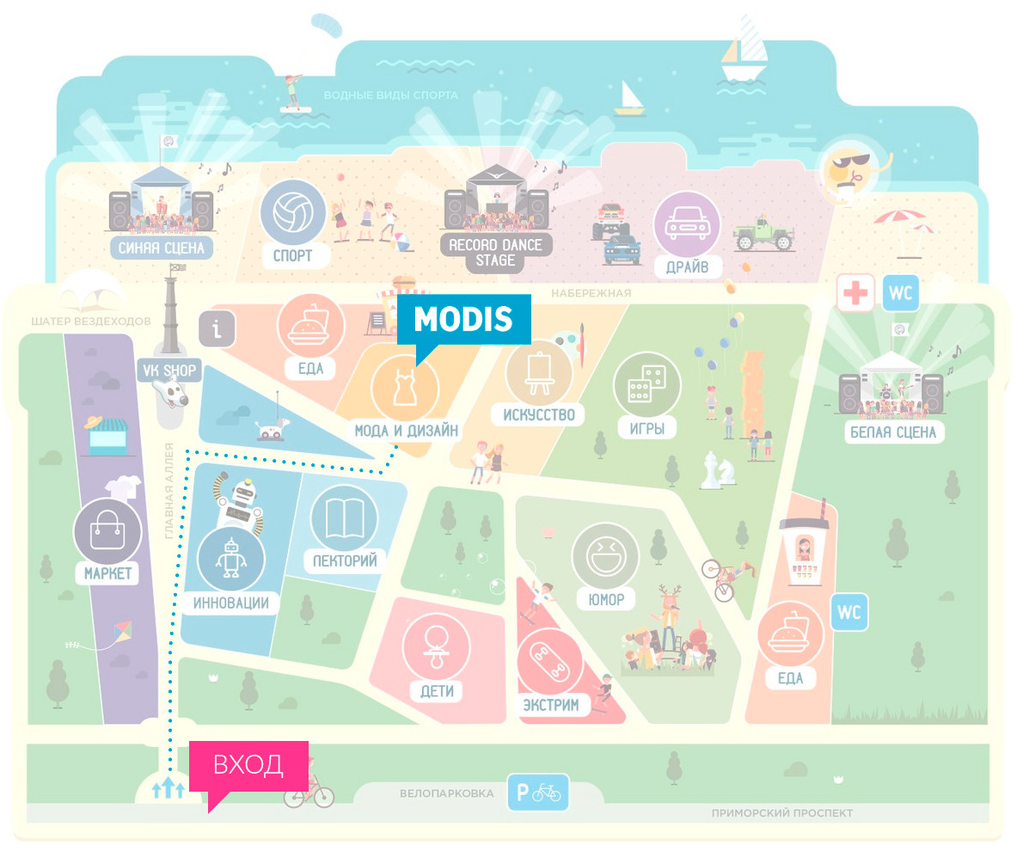
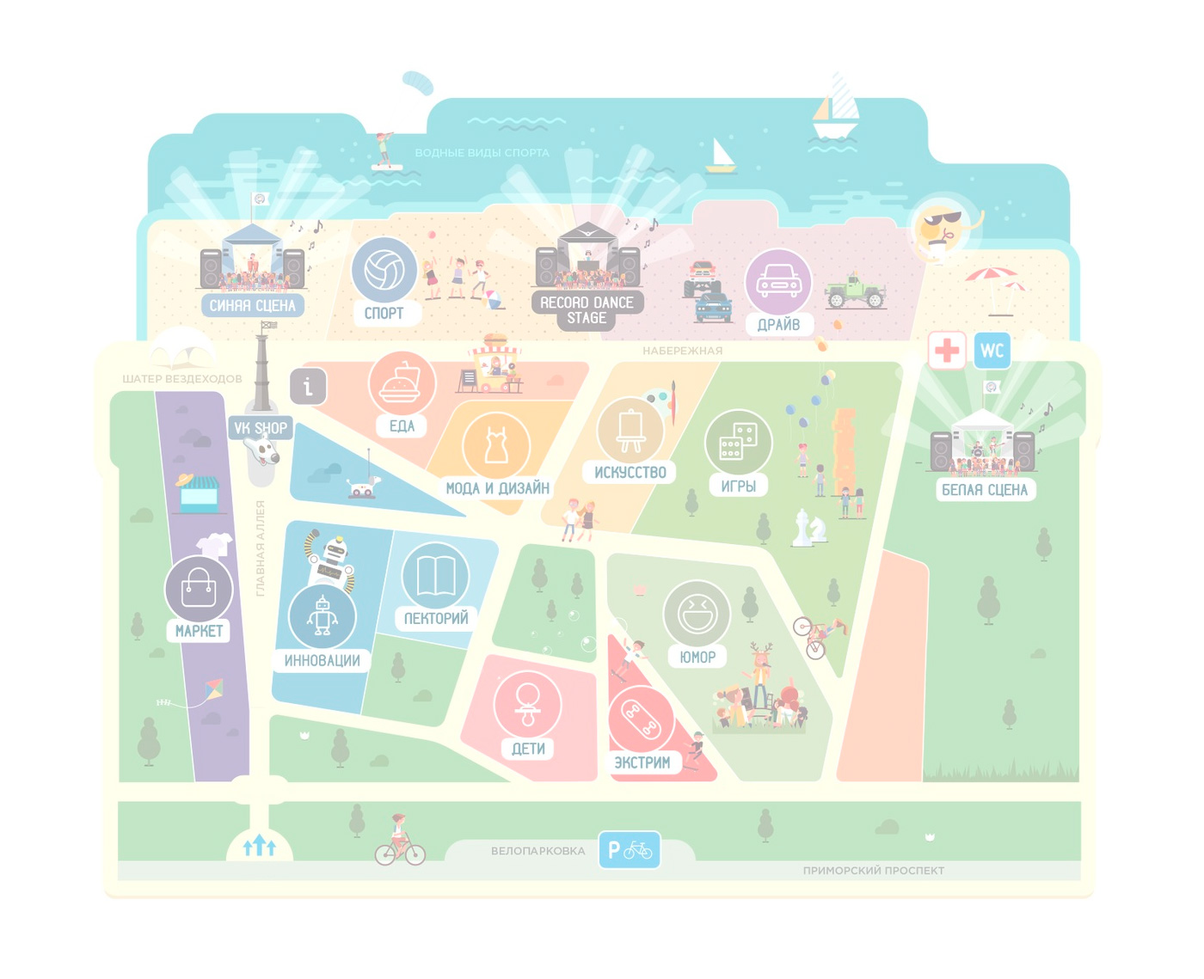
text fix

diff --git a/build/index.html b/build/index.html
@@ -1,4 +1,4 @@
-<!DOCTYPE html><html lang="" class="no-js"><head><meta charset="utf-8"><meta name="description" content=""><title>Modis</title><!-- Place favicon.ico and apple-touch-icon.png in the root directory--><!-- build:css styles/main.css--><!-- link(rel="stylesheet", href="styles/vendor.css")--><link rel="stylesheet" href="styles/main.css"><!-- endbuild--><!-- build:js scripts/vendor/modernizr.js--><!-- endbuild--></head><body><header class="header"><div class="wrapper"><a href="http://modis.ru" class="header__logo"></a><div class="header__left-block"><div class="block__top">Когда</div><div class="block__date">18-19 июля 2015</div><div class="block__time">12.00 до 23.00</div></div><div class="header__left-block"><div class="block__top">Где</div><div class="block__date">Парк 300-летия Санкт-Петербурга</div><div class="block__time">Приморский проспект, 157</div></div><a href="http://vk.com/fest" target="_blank" class="header__vk-logo"></a></div></header><section class="block-counter"><div class="wrapper"><div class="counter__title">ДО НАЧАЛА ФЕСТИВАЛЯ ОСТАЛОСЬ</div><div class="counter__numbers js-countdown">12 : 08 : 40</div><div class="counter__text"><span>Дни</span><span>Часы</span><span>Минуты</span></div></div></section><section class="news-delivery"><div class="js-form-parent"><div class="delivery__title">Новостная рассылка</div><div class="delivery__desc">Оставь свой имейл и получи секретную коллекцию MODIS. До того, как тысячи посетителей увидят ее на фестивале!</div><div class="delivery__form"><form action="//igoralekseev.us11.list-manage.com/subscribe/post-json?u=786a3d2c7f03ea4539c0dc24d&amp;amp;id=0bdb331b30" method="post" class="js-mail"><div style="position: absolute; left: -5000px;"><input type="text" name="b_786a3d2c7f03ea4539c0dc24d_0bdb331b30" tabindex="-1" value=""></div><input name="EMAIL" placeholder="Введите Ваш email" class="form__input"><button type="submit" class="black-btn">Подписаться</button></form></div></div><div class="delivery__title"><div style="display: none;" class="js-mail-success">Спасибо, что вы с нами!</div></div><div style="display: none;" class="delivery__desc js-mail-fail">Произошла ошибка, повторите попытку чуть позже.</div></section><section class="block-visit"><div class="wrapper"><div class="us-title">Посетите MODIS Home</div><ul class="visit__list list-top"><li data-row="1" data-number="0" class="list__item"><div class="item__number">1</div><div class="item__image"><img src="images/visit-circle.png"></div></li><li data-row="1" data-number="1" class="list__item"><div class="item__number">2</div><div class="item__image"><img src="images/visit-circle2.png"></div></li><li data-row="1" data-number="2" class="list__item"><div class="item__number">3</div><div class="item__image"><img src="images/visit-circle3.png"></div></li></ul><div class="visit__list list-bottom"><div data-row="1" data-number="0" class="list__item"><div class="item__desc">Примите участие<br>в интерактивах</div></div><div data-row="1" data-number="1" class="list__item"><div class="item__desc">Покупайте одежду<br>И ПОСМОТРиТе КАТАЛОГ</div></div><div data-row="1" data-number="2" class="list__item"><div class="item__desc">Общайтесь<br>С ПОПУЛЯРНЫМИ БЛОГЕРАМИ</div></div></div></div></section><section class="block-tabs"><div class="wrapper"><div class="tabs-item"><div class="us-title">Интерактивы и мастер-классы</div><ul class="tabs__metro"><li data-row="0" data-number="0" class="metro__block js-scroll-show"><div class="block-wrapper"><div class="block__image"><div style="background-image: url(images/inter1.jpg);" class="image__src"></div></div><div class="block__info"><div class="info__title">#<b>Modis</b>fun</div><div class="info__desc">Добро пожаловать на территорию MODIS. Как насчет разминки? Для неё приготовили кое-что веселое.<br>Смартфоны в руки, внимание на экран!</div></div></div></li><li data-row="0" data-number="1" class="metro__block js-scroll-show"><div class="block-wrapper"><div class="block__image"><div style="background-image: url(images/inter2.jpg);" class="image__src"></div></div><div class="block__info"><div class="info__title">#<b>Modis</b>look</div><div class="info__desc">Собери свой уникальный образ самым необычным способом. И закрепи его. Да-да, закрепи на большой магнитной доске. Оцени со стороны, какой у тебя вкус.</div></div></div></li><li data-row="0" data-number="2" class="metro__block js-scroll-show"><div class="block-wrapper"><div class="block__image"><div style="background-image: url(images/inter3.jpg);" class="image__src"></div></div><div class="block__info"><div class="info__title">#ILike<b>Modis</b></div><div class="info__desc">Приходилось ли тебе ставить лайки в оффлайне? Смартфоны прочь, мы будем выбирать лучшие модели MODIS с помощью технологий будущего.  </div></div></div></li><li data-row="0" data-number="3" class="metro__block js-scroll-show"><div class="block-wrapper"><div class="block__image"><div style="background-image: url(images/inter4.jpg);" class="image__src"></div></div><div class="block__info"><div class="info__title">#<b>Modis</b>buyer</div><div class="info__desc">Помоги другим быть стильными! Стань настоящим байером, и твой выбор окажется в магазинах по всей стране!</div></div></div></li><li data-row="0" data-number="4" class="metro__block js-scroll-show"><div class="block-wrapper"><div class="block__image"><div style="background-image: url(images/inter5.jpg);" class="image__src"></div></div><div class="block__info"><div class="info__title">#<b>Modis</b>MasterClass</div><div class="info__desc">Последние штрихи в твоем образе! На мастер-классах лучшие стилисты, визажисты и парикмахеры откроют секреты своего мастерства.</div></div></div></li><li data-row="0" data-number="5" class="metro__block js-scroll-show"><div class="block-wrapper"><div class="block__image"><div style="background-image: url(images/inter6.jpg);" class="image__src"></div></div><div class="block__info"><div class="info__title">#<b>Modis</b>Photo</div><div class="info__desc">Образ готов, теперь можно выйти в свет. Там тебя уже караулят папарацци. До встречи на полосах глянца!</div></div></div></li></ul></div></div></section><section class="block-popular"><div class="wrapper"><div class="us-title">Популярные блогеры</div><div class="popular__list"><div data-row="2" data-number="0" class="list__item js-scroll-show"><div class="list-wrapper"><div style="background-image: url(images/blogger1.png);" class="list__image"></div><div class="list__name">Ксения Гощицкая</div><div class="list__link"><a href="http://sobaka.ru" target="_blank">sobaka.ru</a></div><div class="list__desc">Что мы будем носить это осенью (практические подсказки для покупки гардероба для нового сезона).</div></div></div><div data-row="2" data-number="1" class="list__item js-scroll-show"><div class="list-wrapper"><div style="background-image: url(images/blogger2.png);" class="list__image"></div><div class="list__name">Екатерина Ассылова</div><div class="list__link"><a href="http://be-in.ru" target="_blank">be-in.ru</a></div><div class="list__desc">Как попасть в модную прессу или что сделать такого – чтобы увидеть информацию о себе на страничках популярных изданий  о моде.</div></div></div><div data-row="2" data-number="2" class="list__item js-scroll-show"><div class="list-wrapper"><div style="background-image: url(images/blogger3.png);" class="list__image"></div><div class="list__name">Игорь Андреев </div><div class="list__link"><a>Жрнал «SNC»</a></div><div class="list__desc">Как одеть своего мужчину стильно.</div></div></div><div data-row="2" data-number="3" class="list__item js-scroll-show"><div class="list-wrapper"><div style="background-image: url(images/blogger4.png);" class="list__image"></div><div class="list__name">Юля Большакова</div><div class="list__link"><a>Журнал «Дорогое удовольствие»</a></div><div class="list__desc">Как устроена редакция модного журнала (или как узнать подходит ли тебе должность редактор моды).</div></div></div><div data-row="2" data-number="4" class="list__item js-scroll-show"><div class="list-wrapper"><div style="background-image: url(images/blogger5.png);" class="list__image"></div><div class="list__name">Анжела Арутюнян</div><div class="list__link"><a href="http://my-style-life.livejournal.com" target="_blank">my-style-life.livejournal.com</a></div><div class="list__desc">Что такое бюджетная мода – что покупать в магазинах масс маркет чтобы выглядеть на миллион.</div></div></div><div data-row="2" data-number="5" class="list__item js-scroll-show"><div class="list-wrapper"><div style="background-image: url(images/blogger6.png);" class="list__image"></div><div class="list__name">Дарья Розенфельд</div><div class="list__link"><a href="http://dasharosenfeld.com" target="_blank">dasharosenfeld.com</a></div><div class="list__desc">Rак составить гардероб для лета в Санкт Петербург.</div></div></div></div></div></section><section class="block-location"><div class="us-title">Как найти нас на фестивале</div><div class="location__map"><img src="images/map.jpg"></div></section><section class="block-follow"><div class="wrapper"><div class="us-title">Подпишись</div><div class="follow__desc">на наши сообщества, чтобы не упустить свои<br>фото с фестиваля</div><div class="follow__widgets"><div class="widgets__item"><div id="vk_groups"></div></div><div class="widgets__item"><div data-href="https://www.facebook.com/modisfashionrussia" data-height="389" data-small-header="true" data-adapt-container-width="true" data-hide-cover="false" data-show-facepile="true" data-show-posts="true" class="fb-page"><div class="fb-xfbml-parse-ignore"><blockquote cite="https://www.facebook.com/modisfashionrussia"><a href="https://www.facebook.com/modisfashionrussia">MODIS_Fashion</a></blockquote></div></div></div></div></div></section><footer class="footer"><div class="wrapper"><span class="footer__left">&copy; 2015, <a href="http://modis.ru/" target="_blank">MODIS</a>. Все права защищены</span><span class="footer__right"><span class="right__text">Modis в соц.сетях</span><span class="right__icons"><a href="https://www.facebook.com/modisfashionrussia" target="_blank" class="icons__item"><i class="svg-icon icon-fb"></i></a><a href="https://instagram.com/modis_rus/" target="_blank" class="icons__item"><i class="svg-icon icon-in"></i></a><a href="http://vk.com/modis_official" target="_blank" class="icons__item"><i class="svg-icon icon-vk"></i></a><a href="http://www.youtube.com/user/ModisFashion" target="_blank" class="icons__item"><i class="svg-icon icon-yt"></i></a></span></span></div></footer><div id="fb-root"></div><script>(function(i,s,o,g,r,a,m){i['GoogleAnalyticsObject']=r;i[r]=i[r]||function(){
+<!DOCTYPE html><html lang="" class="no-js"><head><meta charset="utf-8"><meta name="description" content=""><title>Modis</title><!-- Place favicon.ico and apple-touch-icon.png in the root directory--><!-- build:css styles/main.css--><!-- link(rel="stylesheet", href="styles/vendor.css")--><link rel="stylesheet" href="styles/main.css"><!-- endbuild--><!-- build:js scripts/vendor/modernizr.js--><!-- endbuild--></head><body><header class="header"><div class="wrapper"><a href="http://modis.ru" class="header__logo"></a><div class="header__left-block"><div class="block__top">Когда</div><div class="block__date">18-19 июля 2015</div><div class="block__time">12.00 до 23.00</div></div><div class="header__left-block"><div class="block__top">Где</div><div class="block__date">Парк 300-летия Санкт-Петербурга</div><div class="block__time">Приморский проспект, 157</div></div><a href="http://vk.com/fest" target="_blank" class="header__vk-logo"></a></div></header><section class="block-counter"><div class="wrapper"><div class="counter__title">ДО НАЧАЛА ФЕСТИВАЛЯ ОСТАЛОСЬ</div><div class="counter__numbers js-countdown">12 : 08 : 40</div><div class="counter__text"><span>Дни</span><span>Часы</span><span>Минуты</span></div></div></section><section class="news-delivery"><div class="js-form-parent"><div class="delivery__title">Новостная рассылка</div><div class="delivery__desc">Оставь свой имейл и получи секретную коллекцию MODIS. До того, как тысячи посетителей увидят ее на фестивале!</div><div class="delivery__form"><form action="//igoralekseev.us11.list-manage.com/subscribe/post-json?u=786a3d2c7f03ea4539c0dc24d&amp;amp;id=0bdb331b30" method="post" class="js-mail"><div style="position: absolute; left: -5000px;"><input type="text" name="b_786a3d2c7f03ea4539c0dc24d_0bdb331b30" tabindex="-1" value=""></div><input name="EMAIL" placeholder="Введите Ваш email" class="form__input"><button type="submit" class="black-btn">Подписаться</button></form></div></div><div class="delivery__title"><div style="display: none;" class="js-mail-success">Спасибо, что вы с нами!</div></div><div style="display: none;" class="delivery__desc js-mail-fail">Произошла ошибка, повторите попытку чуть позже.</div></section><section class="block-visit"><div class="wrapper"><div class="us-title">Посетите MODIS Home</div><ul class="visit__list list-top"><li data-row="1" data-number="0" class="list__item"><div class="item__number">1</div><div class="item__image"><img src="images/visit-circle.png"></div></li><li data-row="1" data-number="1" class="list__item"><div class="item__number">2</div><div class="item__image"><img src="images/visit-circle2.png"></div></li><li data-row="1" data-number="2" class="list__item"><div class="item__number">3</div><div class="item__image"><img src="images/visit-circle3.png"></div></li></ul><div class="visit__list list-bottom"><div data-row="1" data-number="0" class="list__item"><div class="item__desc">Примите участие<br>в интерактивах</div></div><div data-row="1" data-number="1" class="list__item"><div class="item__desc">Покупайте одежду<br>И ПОСМОТРиТе КАТАЛОГ</div></div><div data-row="1" data-number="2" class="list__item"><div class="item__desc">Общайтесь<br>С ПОПУЛЯРНЫМИ БЛОГЕРАМИ</div></div></div></div></section><section class="block-tabs"><div class="wrapper"><div class="tabs-item"><div class="us-title">Интерактивы и мастер-классы</div><ul class="tabs__metro"><li data-row="0" data-number="0" class="metro__block js-scroll-show"><div class="block-wrapper"><div class="block__image"><div style="background-image: url(images/inter1.jpg);" class="image__src"></div></div><div class="block__info"><div class="info__title">#<b>Modis</b>fun</div><div class="info__desc">Добро пожаловать на территорию MODIS. Как насчет разминки? Для неё приготовили кое-что веселое.<br>Смартфоны в руки, внимание на экран!</div></div></div></li><li data-row="0" data-number="1" class="metro__block js-scroll-show"><div class="block-wrapper"><div class="block__image"><div style="background-image: url(images/inter2.jpg);" class="image__src"></div></div><div class="block__info"><div class="info__title">#<b>Modis</b>look</div><div class="info__desc">Собери свой уникальный образ самым необычным способом. И закрепи его. Да-да, закрепи на большой магнитной доске. Оцени со стороны, какой у тебя вкус.</div></div></div></li><li data-row="0" data-number="2" class="metro__block js-scroll-show"><div class="block-wrapper"><div class="block__image"><div style="background-image: url(images/inter3.jpg);" class="image__src"></div></div><div class="block__info"><div class="info__title">#ILike<b>Modis</b></div><div class="info__desc">Приходилось ли тебе ставить лайки в оффлайне? Смартфоны прочь, мы будем выбирать лучшие модели MODIS с помощью технологий будущего.  </div></div></div></li><li data-row="0" data-number="3" class="metro__block js-scroll-show"><div class="block-wrapper"><div class="block__image"><div style="background-image: url(images/inter4.jpg);" class="image__src"></div></div><div class="block__info"><div class="info__title">#<b>Modis</b>buyer</div><div class="info__desc">Помоги другим быть стильными! Стань настоящим байером, и твой выбор окажется в магазинах по всей стране!</div></div></div></li><li data-row="0" data-number="4" class="metro__block js-scroll-show"><div class="block-wrapper"><div class="block__image"><div style="background-image: url(images/inter5.jpg);" class="image__src"></div></div><div class="block__info"><div class="info__title">#<b>Modis</b>MasterClass</div><div class="info__desc">Последние штрихи в твоем образе! На мастер-классах лучшие стилисты, визажисты и парикмахеры откроют секреты своего мастерства.</div></div></div></li><li data-row="0" data-number="5" class="metro__block js-scroll-show"><div class="block-wrapper"><div class="block__image"><div style="background-image: url(images/inter6.jpg);" class="image__src"></div></div><div class="block__info"><div class="info__title">#<b>Modis</b>Photo</div><div class="info__desc">Образ готов, теперь можно выйти в свет. Там тебя уже караулят папарацци. До встречи на полосах глянца!</div></div></div></li></ul></div></div></section><section class="block-popular"><div class="wrapper"><div class="us-title">Популярные лекторы для MODIS</div><div class="popular__list"><div data-row="2" data-number="0" class="list__item js-scroll-show"><div class="list-wrapper"><div style="background-image: url(images/blogger1.png);" class="list__image"></div><div class="list__name">Ксения Гощицкая</div><div class="list__link"><a href="http://sobaka.ru" target="_blank">sobaka.ru</a></div><div class="list__desc">Что мы будем носить этой осенью (практические подсказки для покупки гардероба для нового сезона).</div></div></div><div data-row="2" data-number="1" class="list__item js-scroll-show"><div class="list-wrapper"><div style="background-image: url(images/blogger2.png);" class="list__image"></div><div class="list__name">Екатерина Ассылова</div><div class="list__link"><a href="http://be-in.ru" target="_blank">be-in.ru</a></div><div class="list__desc">Как попасть в модную прессу или что сделать такого, чтобы увидеть информацию о себе на страничках популярных изданий о моде.</div></div></div><div data-row="2" data-number="2" class="list__item js-scroll-show"><div class="list-wrapper"><div style="background-image: url(images/blogger3.png);" class="list__image"></div><div class="list__name">Игорь Андреев </div><div class="list__link"><a>Журнал «SNC»</a></div><div class="list__desc">Как одеть своего мужчину стильно.</div></div></div><div data-row="2" data-number="3" class="list__item js-scroll-show"><div class="list-wrapper"><div style="background-image: url(images/blogger4.png);" class="list__image"></div><div class="list__name">Юля Большакова</div><div class="list__link"><a>Журнал «Дорогое удовольствие»</a></div><div class="list__desc">Как устроена редакция модного журнала (или как узнать подходит ли тебе должность «редактор моды»).</div></div></div><div data-row="2" data-number="4" class="list__item js-scroll-show"><div class="list-wrapper"><div style="background-image: url(images/blogger5.png);" class="list__image"></div><div class="list__name">Анжела Арутюнян</div><div class="list__link"><a href="http://my-style-life.livejournal.com" target="_blank">my-style-life.livejournal.com</a></div><div class="list__desc">Что такое бюджетная мода – что покупать в магазинах масс маркет, чтобы выглядеть на миллион.</div></div></div><div data-row="2" data-number="5" class="list__item js-scroll-show"><div class="list-wrapper"><div style="background-image: url(images/blogger6.png);" class="list__image"></div><div class="list__name">Дарья Розенфельд</div><div class="list__link"><a href="http://dasharosenfeld.com" target="_blank">dasharosenfeld.com</a></div><div class="list__desc">Как составить гардероб для лета в Санкт-Петербургe.</div></div></div></div></div></section><section class="block-location"><div class="wrapper"><div class="us-title">Как найти нас на фестивале</div><div class="location__map"><img src="images/map.jpg" class="map__image"><img src="images/enter.png" class="map__enter"><img src="images/modis_location.png" class="map__modis"></div></div></section><section class="block-follow"><div class="wrapper"><div class="us-title">Подпишись</div><div class="follow__desc">на наши сообщества, чтобы не упустить свои<br>фото с фестиваля</div><div class="follow__widgets"><div class="widgets__item"><div id="vk_groups"></div></div><div class="widgets__item"><div data-href="https://www.facebook.com/modisfashionrussia" data-height="389" data-small-header="true" data-adapt-container-width="true" data-hide-cover="false" data-show-facepile="true" data-show-posts="true" class="fb-page"><div class="fb-xfbml-parse-ignore"><blockquote cite="https://www.facebook.com/modisfashionrussia"><a href="https://www.facebook.com/modisfashionrussia">MODIS_Fashion</a></blockquote></div></div></div></div></div></section><footer class="footer"><div class="wrapper"><span class="footer__left">&copy; 2015, <a href="http://modis.ru/" target="_blank">MODIS</a>. Все права защищены</span><span class="footer__right"><span class="right__text">Modis в соц.сетях</span><span class="right__icons"><a href="https://www.facebook.com/modisfashionrussia" target="_blank" class="icons__item"><i class="svg-icon icon-fb"></i></a><a href="https://instagram.com/modis_rus/" target="_blank" class="icons__item"><i class="svg-icon icon-in"></i></a><a href="http://vk.com/modis_official" target="_blank" class="icons__item"><i class="svg-icon icon-vk"></i></a><a href="http://www.youtube.com/user/ModisFashion" target="_blank" class="icons__item"><i class="svg-icon icon-yt"></i></a></span></span></div></footer><div id="fb-root"></div><script>(function(i,s,o,g,r,a,m){i['GoogleAnalyticsObject']=r;i[r]=i[r]||function(){
 (i[r].q=i[r].q||[]).push(arguments)},i[r].l=1*new Date();a=s.createElement(o),
 m=s.getElementsByTagName(o)[0];a.async=1;a.src=g;m.parentNode.insertBefore(a,m)
 })(window,document,'script','//www.google-analytics.com/analytics.js','ga');

diff --git a/src/styles/main.scss b/src/styles/main.scss
@@ -412,16 +412,35 @@ body {
 .block-location {
 	padding-bottom: 80px;
 
+	.wrapper {
+		position: relative;
+	}
+
 	.us-title {
 		padding-top: 80px;
 		color: #009fd0;
 	}
 
 	.location__map {
+		position: relative;
 		text-align: center;
 
-		img {
+		.map__image {
 			max-width: 100%;
+		}
+
+		.map__enter {
+			position: absolute;
+			top: 768px;
+			left: 275px;
+			z-index: 2;
+		}
+
+		.map__modis {
+			position: absolute;
+			top: 640px;
+			right: 171px;
+			z-index: 2;
 		}
 	}
 }
